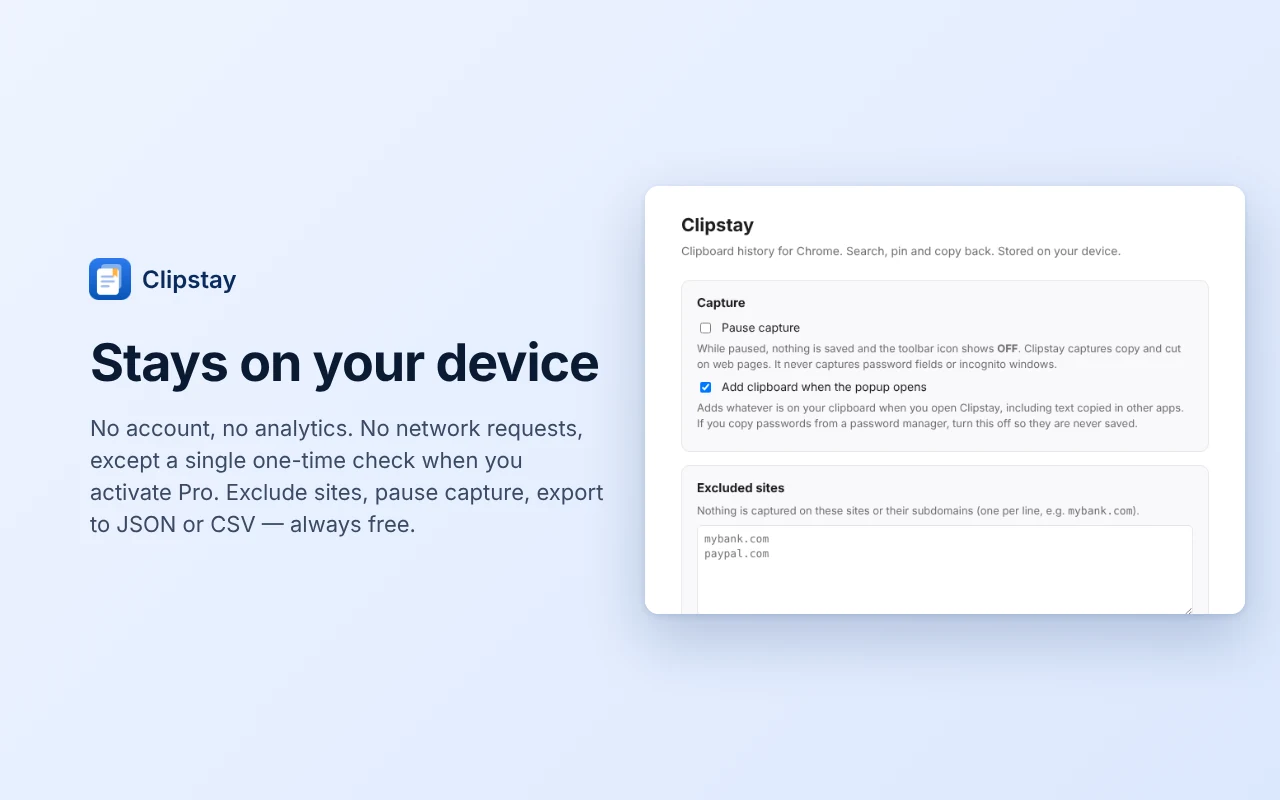
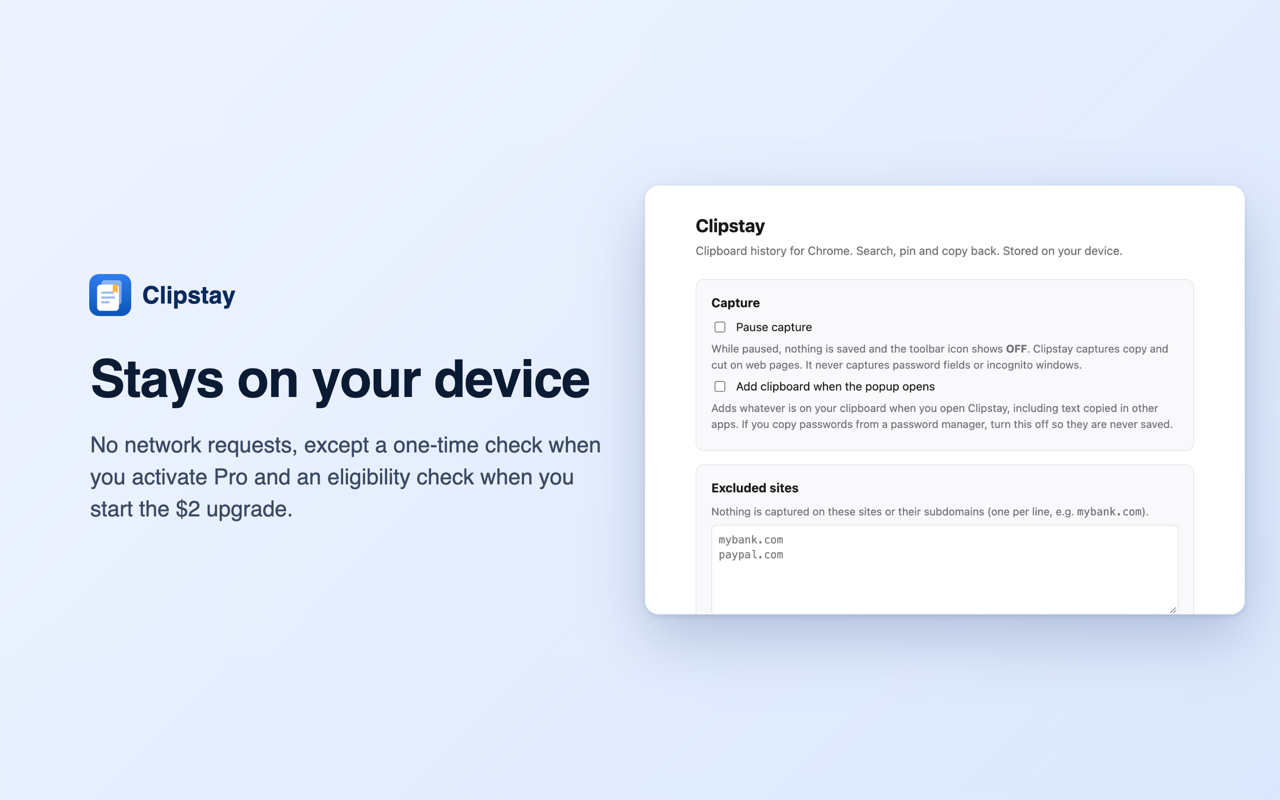
docs: align product claims and Clipstay privacy image with published behavior

diff --git a/content/pagestay.md b/content/pagestay.md
@@ -2,7 +2,7 @@
 # Product page for Pagestay 1.0.0. Fields are documented in content/clipstay.md.
 # Live in the Chrome Web Store since 1.0.0: the page shows "Add to Chrome" with `storeURL`
 # (the ID-only store address, no slug) and `itemID`.
-title: "Pagestay — Side Panel Notes"
+title: "Pagestay — Page Notes for Websites in the Side Panel"
 name: "Pagestay"
 description: "Pagestay is a Chrome extension for notes in the side panel. Attach a note to a page or a whole site, and everything stays on your device. No account, no sync, no analytics."
 headline: "Notes in the side panel, for the page you are on."
@@ -40,13 +40,13 @@ highlights:
     image: "/img/pagestay/organize.webp"
     alt: "The Pagestay side panel editing a rule note for docs.acme.dev, with a folder and a tag. Caption: Pro, folders, tags and rule notes."
   - title: "Yours to keep"
-    text: "Deleted notes stay in the trash for 30 days, and you can undo a delete. Export all your notes to JSON or Markdown at any time and import them again with a preview. Export and restore are always free."
+    text: "Deleted notes stay in the trash for 30 days, and you can undo a delete. Export all your notes to JSON or Markdown at any time. Import a Pagestay JSON export with a preview. Export and restore are always free."
 features:
   - "Unlimited notes in the side panel, autosaved"
   - "Global, site and page notes"
   - "Version history for every note"
   - "30-day trash with undo"
-  - "Export to JSON or Markdown, import with a preview and undo, always free"
+  - "Export to JSON or Markdown; import Pagestay JSON with a preview and undo, always free"
   - "Title filter"
   - "Keyboard shortcut"
   - "Pro: search inside notes and tags"
@@ -60,7 +60,7 @@ goodToKnow:
   - "Pagestay needs Chrome 130 or newer."
   - "Clicking the toolbar button lets Pagestay read the address of that one tab, for that visit only. To keep the panel following your tabs and to show a dot on the toolbar button when the page or site has a note, press “Enable page notes”. Chrome then asks for the tabs permission, which it words as “read your browsing history”. Pagestay uses addresses on your device only, to find your notes."
   - "Scheduled backups ask for permission to save files only when you turn them on. Turn off “Ask where to save each file” in Chrome's download settings, or backups cannot run unattended."
-  - "If Pro is no longer active on a computer (for example, after reinstalling without activating), search inside notes, rule notes that show a matching note and scheduled backups pause. Your notes, folders, tags and rules are never hidden or locked, but you cannot create new Pro items."
+  - "If Pro is no longer active on a computer (for example, after reinstalling without activating), search inside notes and scheduled backups pause. Existing rules still match pages, and you can open their notes yourself; automatic opening and text previews when the panel opens need Pro. Your notes, folders, tags and rules stay visible and editable. Creating new rules or folders, moving a note into a different folder, or adding tags to a note needs Pro, even when the folder or tag already exists. You can keep or remove existing folder and tag assignments on the free plan."
 supportNote: "Include your Chrome version and operating system if you can, and leave out any private text from your notes."
 faq:
   - q: "Where are my notes stored?"
@@ -72,7 +72,7 @@ faq:
   - q: "How do I take my notes with me?"
     a: "Export them to JSON or Markdown in Settings at any time, and import a JSON export on another computer. Export is always free."
   - q: "What happens to my notes if I do not buy Pro, or Pro is no longer active?"
-    a: "Nothing is deleted, hidden or locked. Notes in folders and with tags stay visible, editable and exportable on the free plan. Only search inside notes, rule notes that show a matching note, scheduled backups and creating new rules, folders and tags need Pro."
+    a: "Nothing is deleted, hidden or locked. Notes in folders and with tags stay visible, editable and exportable on the free plan. Existing rules still match pages, and you can open their notes yourself. Search inside notes, automatic opening and text previews when the panel opens, and scheduled backups need Pro. Creating rules or folders, moving a note into a different folder, or adding tags to a note also needs Pro, including existing folders and tags. You can keep or remove existing folder and tag assignments. Export and restoring a Pagestay JSON export stay free."
   - q: "Can I use Pro on another computer?"
     a: "Yes. Enter the same purchase email in Settings under Plan. Pagestay checks it once, when you press Activate, and does not store the email."
 ---

diff --git a/content/clipstay.md b/content/clipstay.md
@@ -6,12 +6,12 @@
 #   publishes the item, change `status` to `live`; `storeURL` is already filled in.
 # privacyURL must be <product url>privacy/ (the page must exist). privacyLead and privacyNote are the
 # product page's Privacy section text (both required, plain text only). footerPrivacy: false hides the product's privacy link in the footer.
-title: "Clipstay — Clipboard History Manager"
+title: "Clipstay — Pin & Reuse Text: Clipboard Manager, Stored Locally"
 name: "Clipstay"
 description: "Clipstay is a Chrome extension that keeps your clipboard history on your device: search it, pin it and copy it back in one click. No account, no analytics."
 headline: "Your clipboard history, saved."
 tagline: "Your clipboard history, saved. Your clips never leave your device."
-lede: "Clipstay saves everything you copy in Chrome, so you can search it, pin it and copy it back in one click. Your clips never leave your device."
+lede: "Clipstay saves text you copy on supported web pages in Chrome, so you can search it, pin it and copy it back in one click. Your clips never leave your device."
 date: 2026-10-05
 weight: 1
 url: "/clipstay/"
@@ -33,8 +33,8 @@ shortcuts:
   mac: "Control+Shift+V"
   other: "Alt+Shift+V"
 highlights:
-  - title: "Every copy, saved"
-    text: "Copy or cut on any web page and Clipstay keeps it, even in tabs you opened before installing. When you open the popup it also adds what is on your clipboard right now, so text from other apps lands in your history too."
+  - title: "Copy and cut, saved"
+    text: "Copy or cut on supported web pages and Clipstay keeps it, even in tabs you opened before installing. When you open the popup it also adds what is on your clipboard right now, so text from other apps lands in your history too."
   - title: "Find it again in seconds"
     text: "Search your history, pin the clips you reuse and copy any of them back with one click. Open Clipstay from the keyboard with the shortcut below, then move through your clips with the arrow keys, copy with Enter, and pin with P."
     image: "/img/clipstay/search.webp"
@@ -48,7 +48,7 @@ highlights:
     image: "/img/clipstay/pro.webp"
     alt: "The Plan section of Clipstay settings: free limits, Pro with unlimited history and pins for $4.99 one-time, a Buy Pro button and a field to activate with your purchase email."
 features:
-  - "Saves copy and cut on every web page"
+  - "Saves copied and cut text on supported web pages"
   - "Works in tabs opened before you installed"
   - "Adds your clipboard when the popup opens (optional)"
   - "Instant search"
@@ -63,9 +63,10 @@ proPlan: "Pro: $4.99 one-time, unlimited history and pins. Search, export and im
 refundsURL: "/clipstay/refunds/"
 freePlan: "The free plan keeps your 100 most recent unpinned clips, plus up to 5 pinned clips on top. When the history is full, the oldest unpinned clips make room for new ones, and Clipstay lets you know. Pinned clips never roll off. Exporting to JSON or CSV is always free. Importing a file keeps the newest 100 unpinned clips overall, and pinned clips are always kept."
 goodToKnow:
-  - "Clipstay captures text you copy or cut on web pages in Chrome."
+  - "Clipstay captures text you copy or cut on supported web pages in Chrome. Chrome-restricted pages, such as the Chrome Web Store and chrome:// pages, do not allow automatic capture."
   - "For other apps, it adds whatever is on your clipboard at the moment you open the popup. It does not run in the background of other apps."
   - "Clipstay stores text only."
+  - "Each clip stores up to 100 KiB of UTF-8 text. Longer text is truncated to that size. This limit applies to both Free and Pro."
 supportNote: "Include your Chrome version and operating system if you can, and leave out any private text you copied."
 faq:
   - q: "Where is my clipboard history stored?"
